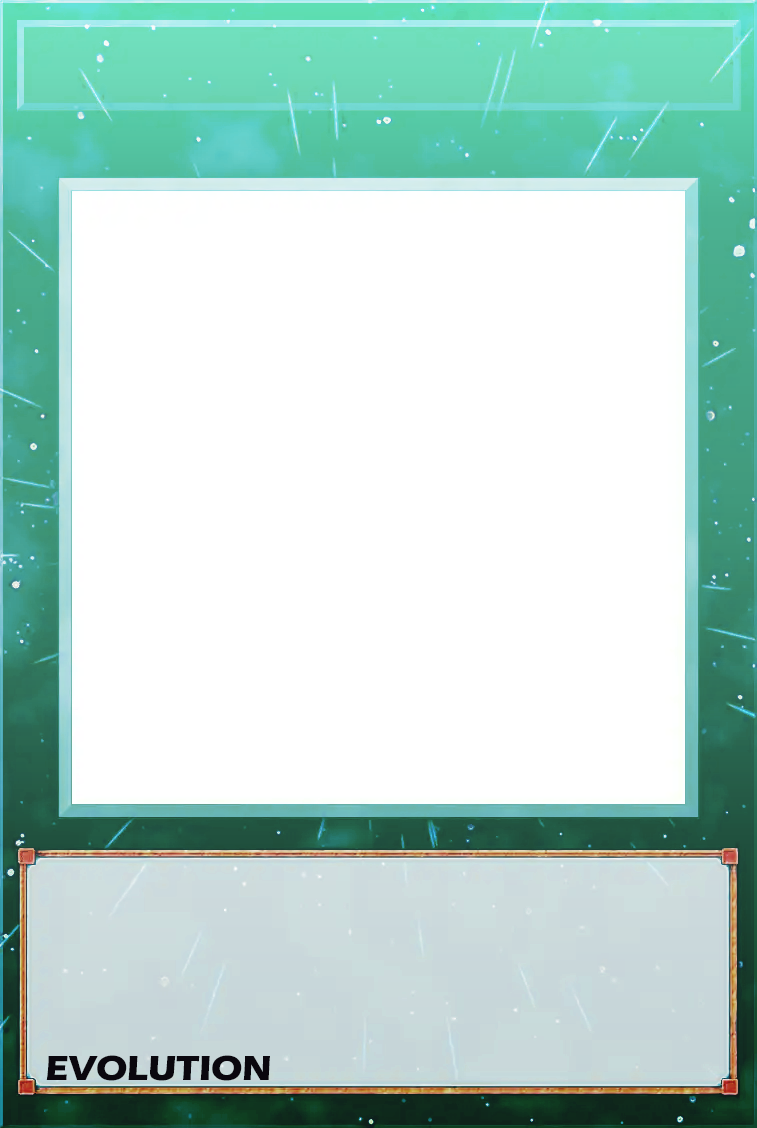
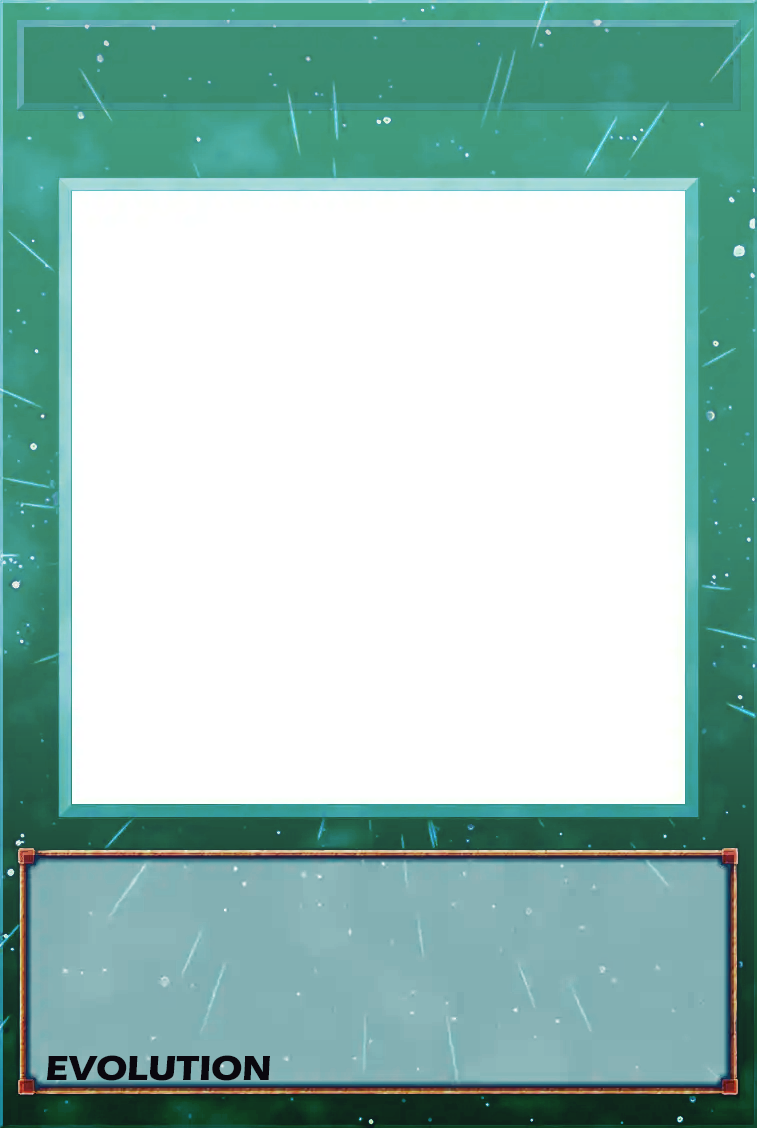
Update SpellEvolution

diff --git a/Scripts/DB_Custom_Frames.user.js b/Scripts/DB_Custom_Frames.user.js
@@ -1,7 +1,7 @@
 // ==UserScript==
 // @name         DB_Custom_Frames
 // @namespace    http://tampermonkey.net/
-// @version      1.6.2
+// @version      1.6.3
 // @homepageURL  https://github.com/yanislavivanovyanev/YIY_YGO_Customs/
 // @updateURL    https://raw.githubusercontent.com/yanislavivanovyanev/YIY_YGO_Customs/main/Scripts/DB_Custom_Frames.user.js
 // @downloadURL  https://raw.githubusercontent.com/yanislavivanovyanev/YIY_YGO_Customs/main/Scripts/DB_Custom_Frames.user.js
@@ -16,7 +16,7 @@
 
     const SMALL_CUSTOM = "https://yanislavivanovyanev.github.io/YIY_YGO_Customs/Misc/SmallCustom.svg";
 
-    const FRAME_VERSION = "v4";
+    const FRAME_VERSION = "v5";
 
     const LINK_FUSION_FRAME = "https://yanislavivanovyanev.github.io/YIY_YGO_Customs/Frames/Custom/LinkFusion.png";
     const LINK_FUSION_NAMES = ["Avendread Savior"];

diff --git a/Scripts/Custom_DB_Custom.user.js b/Scripts/Custom_DB_Custom.user.js
@@ -3,7 +3,7 @@
 // @name         Custom_DB_Custom
 
 // @description  Adds options to customize DB and make it more streamer friendly
-// @version      1.2.2
+// @version      1.2.3
 // @author       Killburne
 // @license		 MIT
 // @namespace    https://www.yugioh-api.com/
